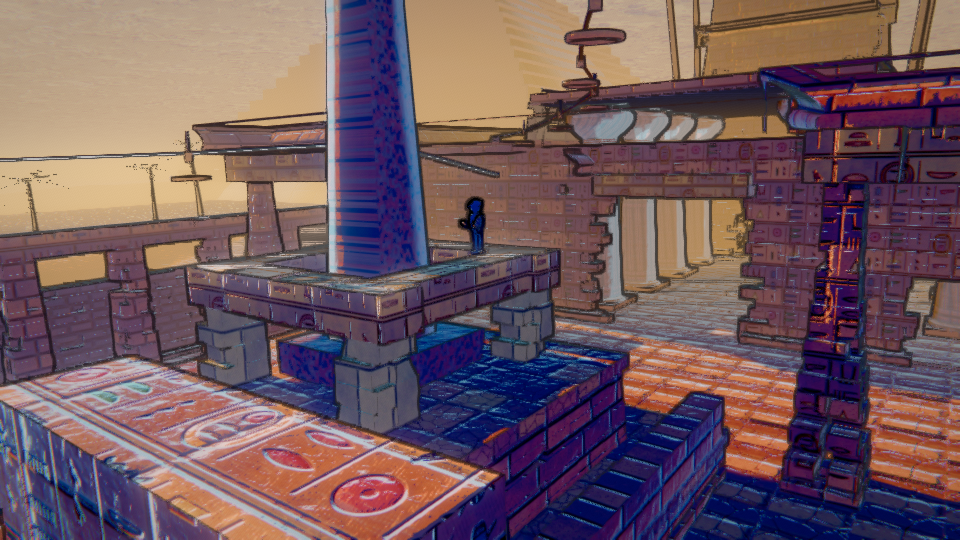
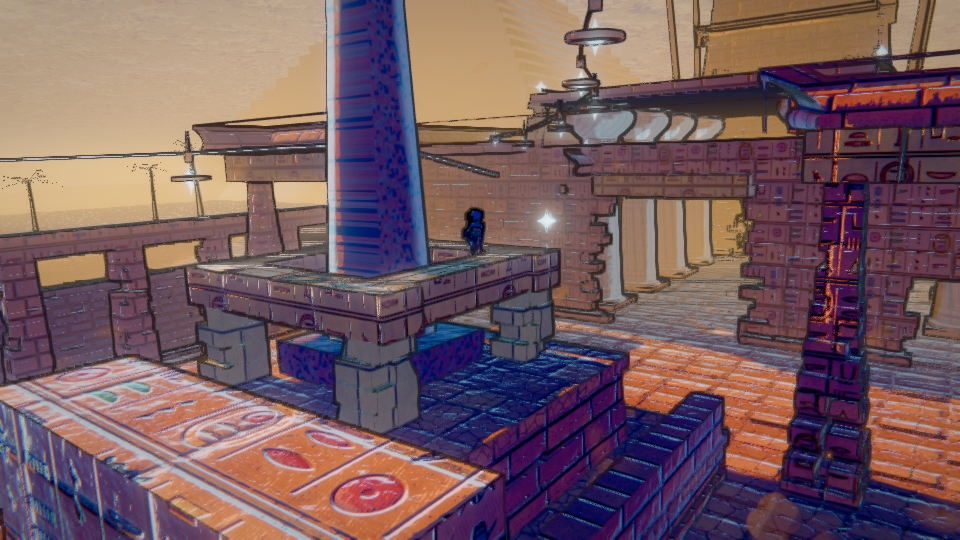
Mix warm sand bounce into the shadow light to kill the purple cast
With the earlier tint cap in place, sunlit surfaces read correctly warm but every
surface facing away from the sun came out mauve. Cause: the shader's shadow term
was purely the cool violet-teal tint, and warm sandstone albedo multiplied by a
blue light neutralises to purple.

Physically a desert shadow is lit by blue sky *and* by sunlight bouncing off the
sand all around it. LIGHTING already models that with a separate bounce light,
but the shadow term ignored it. Blending the shadow tint 45% toward the bounce
colour keeps the palette's violet-teal direction while letting albedo warmth
survive the multiply.

Claude-Session: https://claude.ai/code/session_01PXtatFVa9WWnKz5zHerfeC

diff --git a/src/render/ToonMaterial.js b/src/render/ToonMaterial.js
@@ -94,6 +94,9 @@ const PAL = {
   /* Ceiling on the shadow light's brightest channel after the floor rescale. Above roughly
      this the violet-teal clips toward blue and stops reading as shadow. */
   shadowTintPeak: 0.42,
+  /* How much warm sand bounce is mixed into the shadow light. Desert shadow is sky plus
+     sand bounce; pure sky turns warm albedo mauve. */
+  shadowBounceMix: 0.45,
   haze: 0xe8b878,
   hazeNight: 0x2a3f66,
   hazeSun: 0xffc98a,
@@ -653,7 +656,18 @@ export class Shading {
     const maxK = PAL.shadowTintPeak / Math.max(peak, 1e-4);
     k = Math.min(k, maxK);
 
-    u.uShadowColor.value.copy(this._shadowTint).multiplyScalar(k);
+    /* Mix warm sand bounce into the shadow light.
+     *
+     * A desert shadow is not lit by blue sky alone — it is lit by sky *and* by sunlight
+     * bouncing off the sand all around it. LIGHTING models that with a separate bounce
+     * light, but the shader's shadow term was purely the cool tint, so warm sandstone
+     * albedo multiplied by a blue light neutralised to mauve. Every surface facing away
+     * from the sun came out purple while the sunlit ones read correctly warm.
+     *
+     * Blending toward the bounce colour keeps the palette's violet-teal direction in the
+     * shadow while letting the albedo's warmth survive the multiply. */
+    _col.copy(this._shadowTint).lerp(u.uBounceColor.value, PAL.shadowBounceMix);
+    u.uShadowColor.value.copy(_col).multiplyScalar(k);
   }
 
   /* ======================================================================
